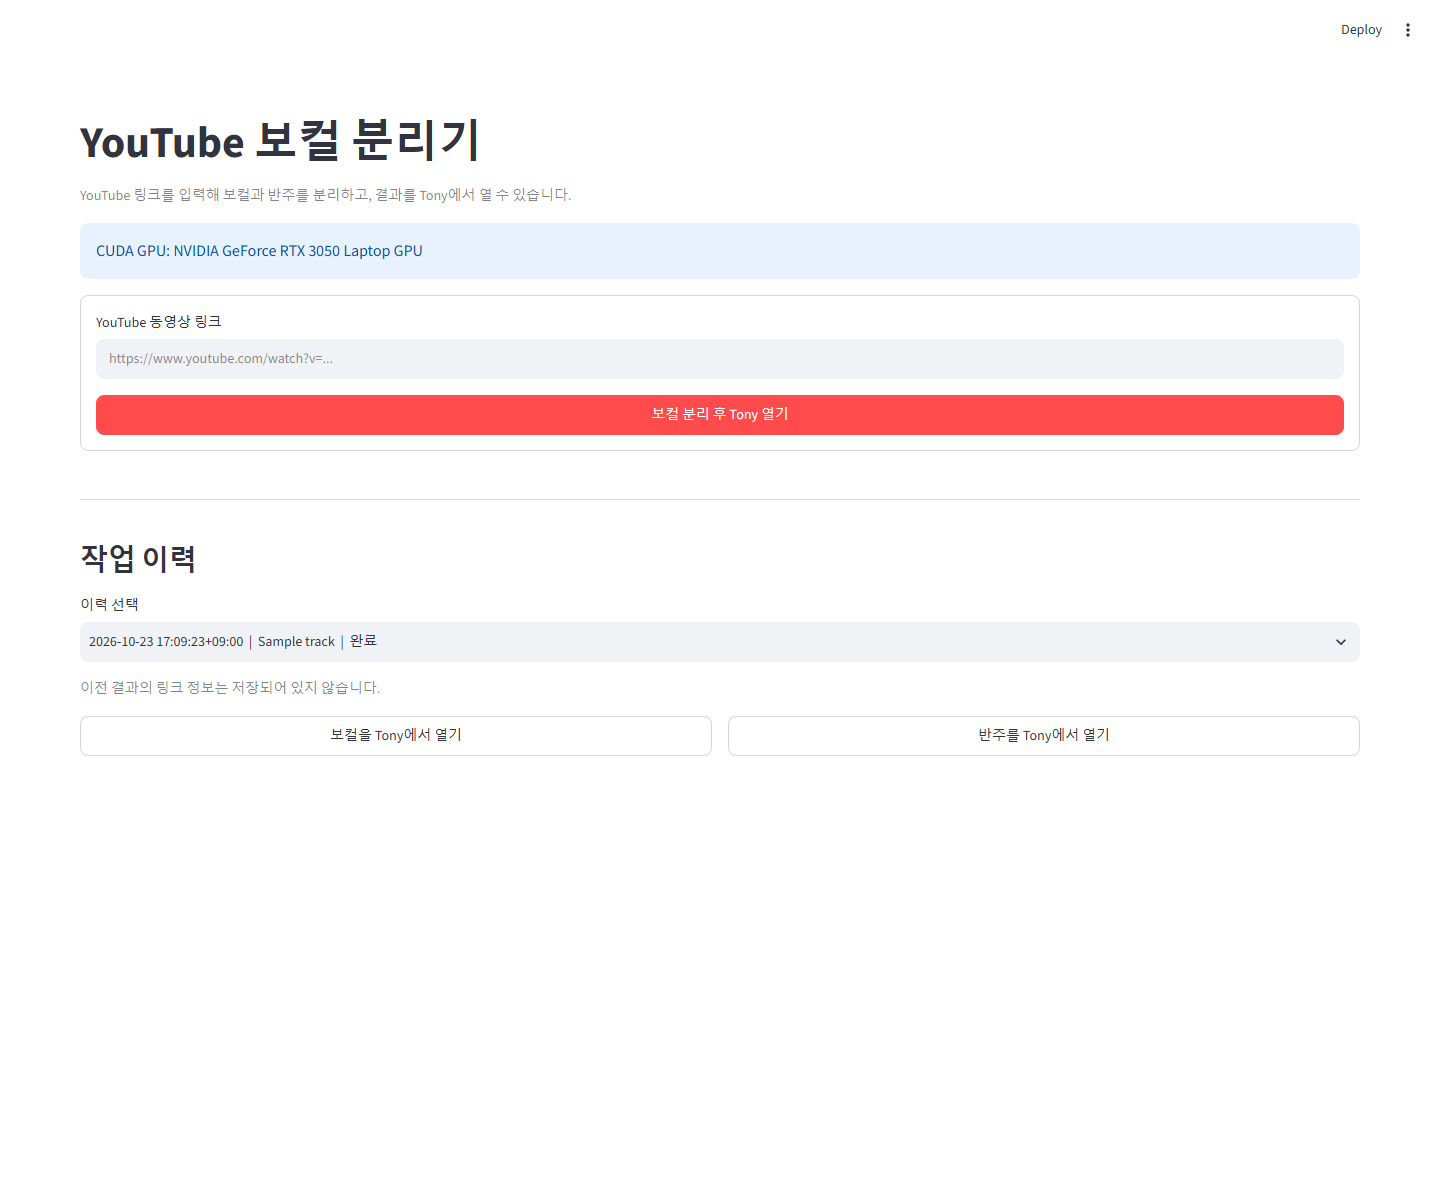
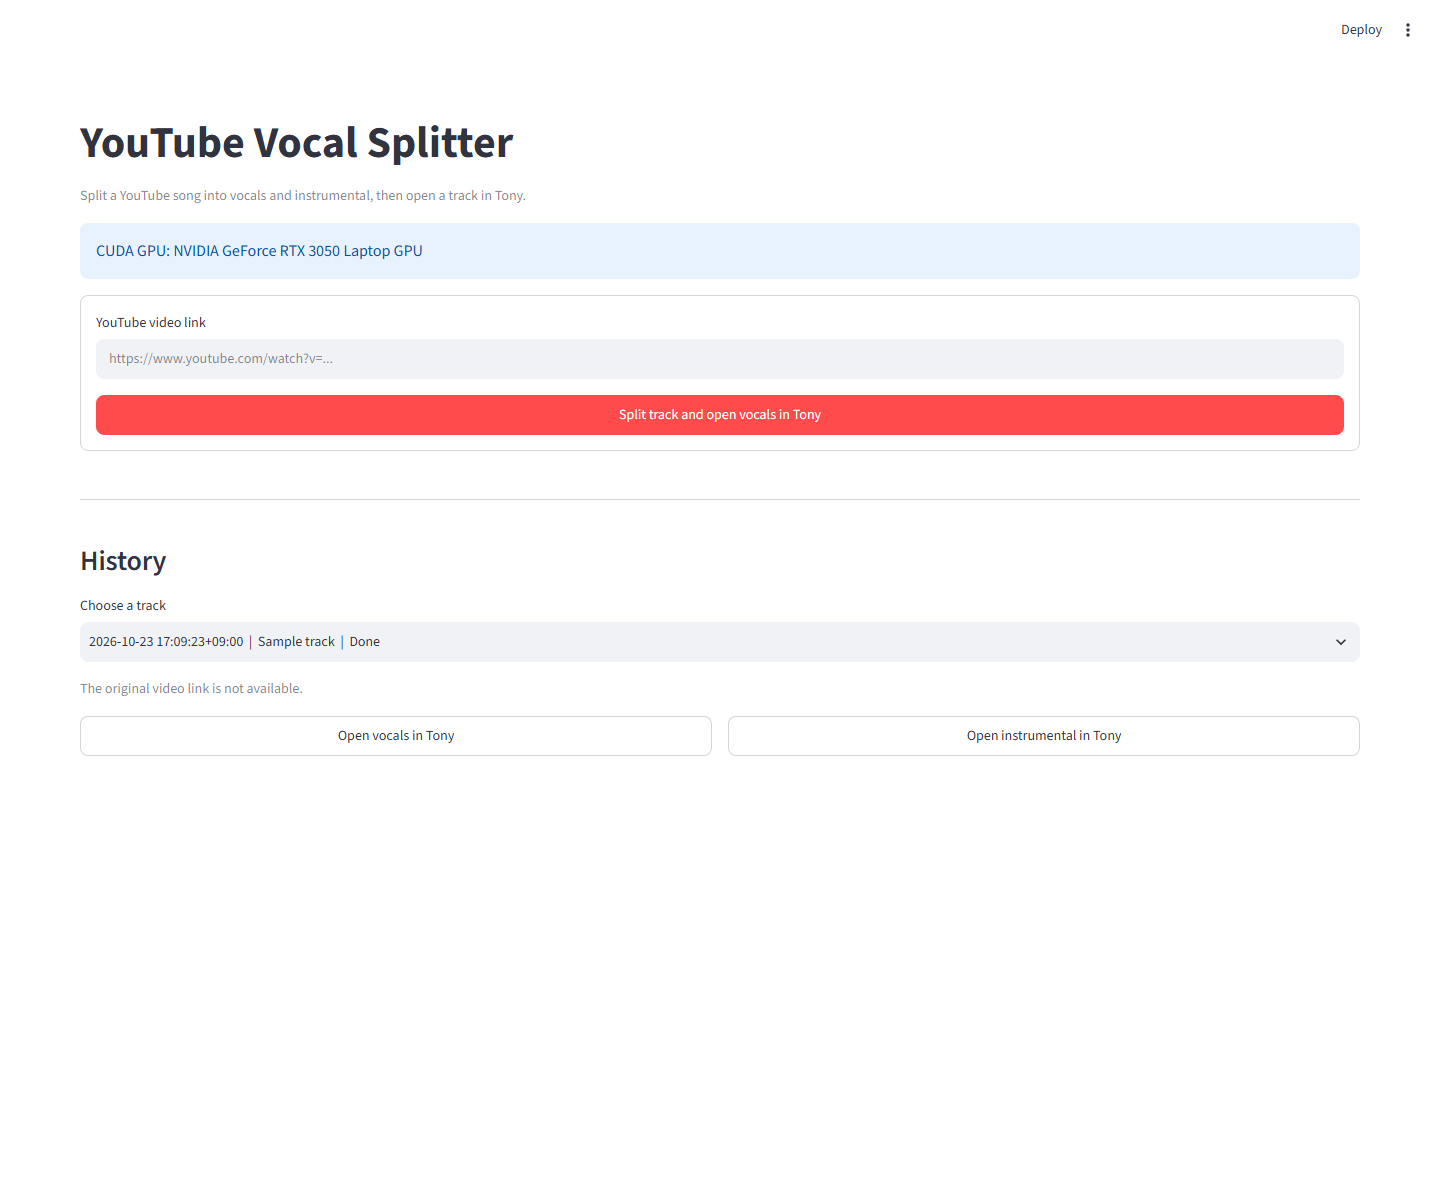
Update lang

diff --git a/pipeline.py b/pipeline.py
@@ -66,7 +66,7 @@ def initialize_history(output_dir=DEFAULT_OUTPUT_DIR):
                     VALUES (?, NULL, 'completed', ?, ?, ?)
                     """,
                     (
-                        "이전 분리 결과 (링크 정보 없음)",
+                        "Previous track (video link not saved)",
                         created_at,
                         str(legacy_vocal.resolve()),
                         str(legacy_instrumental.resolve()),
@@ -95,7 +95,7 @@ def create_history_entry(url, output_dir=DEFAULT_OUTPUT_DIR):
                 INSERT INTO history (title, url, status, created_at)
                 VALUES (?, ?, 'processing', ?)
                 """,
-                ("다운로드 중...", url, created_at),
+                ("Downloading...", url, created_at),
             )
             return cursor.lastrowid
 
@@ -138,7 +138,7 @@ def validate_youtube_url(url):
         or parsed.hostname not in valid_hosts
         or not parsed.path.strip("/")
     ):
-        raise ValueError("유효한 YouTube 동영상 URL을 입력해 주세요.")
+        raise ValueError("Enter a valid YouTube video link.")
     return url.strip()
 
 
@@ -146,10 +146,10 @@ def gpu_description():
     try:
         import torch
     except ImportError:
-        return "PyTorch가 설치되지 않았습니다."
+        return "PyTorch is not installed."
     if torch.cuda.is_available():
         return f"CUDA GPU: {torch.cuda.get_device_name(0)}"
-    return "GPU를 찾지 못해 CPU 모드로 실행합니다."
+    return "No NVIDIA GPU found. Using your CPU."
 
 
 def process_video(url, output_dir=DEFAULT_OUTPUT_DIR, on_status=None, on_title=None):
@@ -170,7 +170,7 @@ def process_video(url, output_dir=DEFAULT_OUTPUT_DIR, on_status=None, on_title=N
     process_env["PYTHONIOENCODING"] = "utf-8"
 
     try:
-        report("YouTube 오디오를 MP3로 다운로드하고 있습니다...")
+        report("Downloading audio...")
         download = subprocess.run(
             [
                 sys.executable,
@@ -198,7 +198,7 @@ def process_video(url, output_dir=DEFAULT_OUTPUT_DIR, on_status=None, on_title=N
         )
         if download.returncode:
             details = (download.stderr or download.stdout).strip()
-            raise RuntimeError(f"YouTube 오디오 다운로드에 실패했습니다.\n{details}")
+            raise RuntimeError(f"Could not download audio.\n{details}")
 
         title = next(
             (
@@ -206,14 +206,14 @@ def process_video(url, output_dir=DEFAULT_OUTPUT_DIR, on_status=None, on_title=N
                 for line in download.stdout.splitlines()
                 if line.startswith("__YT2TONY_TITLE__")
             ),
-            "YouTube 영상",
+            "YouTube track",
         )
         if on_title:
             on_title(title)
         if not temp_audio.is_file():
-            raise RuntimeError("다운로드가 완료됐지만 오디오 파일을 찾을 수 없습니다.")
+            raise RuntimeError("The download finished, but the audio file is missing.")
 
-        report("Demucs로 보컬과 반주를 분리하고 있습니다...")
+        report("Splitting vocals and instrumental...")
         import torch
 
         device = "cuda" if torch.cuda.is_available() else "cpu"
@@ -242,13 +242,13 @@ def process_video(url, output_dir=DEFAULT_OUTPUT_DIR, on_status=None, on_title=N
         )
         if separate.returncode:
             details = (separate.stderr or separate.stdout).strip()
-            raise RuntimeError(f"보컬 분리에 실패했습니다.\n{details}")
+            raise RuntimeError(f"Could not split the track.\n{details}")
 
         result_dir = output_dir / "htdemucs" / run_id
         vocal_path = result_dir / "vocals.mp3"
         instrumental_path = result_dir / "no_vocals.mp3"
         if not vocal_path.is_file() or not instrumental_path.is_file():
-            raise RuntimeError("분리는 완료됐지만 결과 파일을 찾을 수 없습니다.")
+            raise RuntimeError("The split finished, but the output files are missing.")
         return SeparationResult(title, vocal_path, instrumental_path)
     finally:
         if temp_audio.exists():
@@ -260,14 +260,14 @@ def process_video(url, output_dir=DEFAULT_OUTPUT_DIR, on_status=None, on_title=N
 def launch_tony(audio_path):
     audio_path = Path(audio_path).resolve()
     if not audio_path.is_file():
-        raise FileNotFoundError(f"오디오 파일을 찾을 수 없습니다: {audio_path}")
+        raise FileNotFoundError(f"Audio file not found: {audio_path}")
 
     tony_path = Path(
         os.environ.get("TONY_EXE", r"C:\Program Files\Tony\tony.exe")
     )
     if not tony_path.is_file():
         raise FileNotFoundError(
-            f"Tony를 찾을 수 없습니다: {tony_path}\n"
-            "TONY_EXE 환경 변수로 tony.exe 경로를 지정할 수 있습니다."
+            f"Tony was not found: {tony_path}\n"
+            "Set the TONY_EXE environment variable to your tony.exe path."
         )
     return subprocess.Popen([str(tony_path), str(audio_path)])

diff --git a/app.py b/app.py
@@ -14,20 +14,20 @@ from pipeline import (
 )
 
 
-st.set_page_config(page_title="YouTube 보컬 분리기", page_icon="🎵", layout="wide")
-st.title("YouTube 보컬 분리기")
+st.set_page_config(page_title="YouTube Vocal Splitter", page_icon="🎵", layout="wide")
+st.title("YouTube Vocal Splitter")
 st.caption(
-    "YouTube 링크를 입력해 보컬과 반주를 분리하고, 결과를 Tony에서 열 수 있습니다."
+    "Split a YouTube song into vocals and instrumental, then open a track in Tony."
 )
 st.info(gpu_description())
 
 with st.form("process_video", clear_on_submit=False):
     url = st.text_input(
-        "YouTube 동영상 링크",
+        "YouTube video link",
         placeholder="https://www.youtube.com/watch?v=...",
     )
     submitted = st.form_submit_button(
-        "보컬 분리 후 Tony 열기",
+        "Split track and open vocals in Tony",
         type="primary",
         use_container_width=True,
     )
@@ -39,7 +39,7 @@ if submitted:
         st.error(str(error))
     else:
         entry_id = create_history_entry(url)
-        with st.status("작업을 준비하고 있습니다...", expanded=True) as status:
+        with st.status("Getting ready...", expanded=True) as status:
             try:
                 result = process_video(
                     url,
@@ -61,30 +61,30 @@ if submitted:
                     status="failed",
                     error=str(error),
                 )
-                status.update(label="작업에 실패했습니다.", state="error")
+                status.update(label="Something went wrong.", state="error")
                 st.error(str(error))
             else:
-                status.update(label="보컬 분리가 완료됐습니다.", state="complete")
-                st.success(f"완료: {result.title}")
+                status.update(label="Track split complete.", state="complete")
+                st.success(f"Done: {result.title}")
                 try:
                     launch_tony(result.vocal_path)
-                    st.info("보컬 트랙을 Tony에서 열었습니다.")
+                    st.info("Vocals are open in Tony.")
                 except FileNotFoundError as error:
                     st.warning(
-                        f"{error}\n\n분리된 파일은 아래 이력에서 다시 열 수 있습니다."
+                        f"{error}\n\nYou can open the saved tracks from History."
                     )
 
 st.divider()
-st.subheader("작업 이력")
+st.subheader("History")
 history = list_history()
 
 if not history:
-    st.caption("아직 작업 이력이 없습니다. YouTube 링크를 입력해 시작해 보세요.")
+    st.caption("No tracks yet. Paste a YouTube link above to get started.")
 else:
     status_labels = {
-        "completed": "완료",
-        "processing": "작업 중",
-        "failed": "실패",
+        "completed": "Done",
+        "processing": "Working",
+        "failed": "Failed",
     }
     entries = {item["id"]: item for item in history}
 
@@ -95,15 +95,15 @@ else:
         return f'{timestamp}  |  {item["title"]}  |  {label}'
 
     selected_id = st.selectbox(
-        "이력 선택",
+        "Choose a track",
         options=list(entries),
         format_func=format_entry,
     )
     selected = entries[selected_id]
     if selected["url"]:
-        st.markdown(f"[원본 YouTube 영상 열기]({selected['url']})")
+        st.markdown(f"[Open the YouTube video]({selected['url']})")
     else:
-        st.caption("이전 결과의 링크 정보는 저장되어 있지 않습니다.")
+        st.caption("The original video link is not available.")
 
     if selected["status"] == "failed" and selected["error"]:
         st.error(selected["error"])
@@ -113,7 +113,7 @@ else:
         vocal_button, instrumental_button = st.columns(2)
         with vocal_button:
             if st.button(
-                "보컬을 Tony에서 열기",
+                "Open vocals in Tony",
                 key=f"open_vocal_{selected_id}",
                 use_container_width=True,
                 disabled=not vocal_path.is_file(),
@@ -123,10 +123,10 @@ else:
                 except (FileNotFoundError, OSError) as error:
                     st.error(str(error))
                 else:
-                    st.success("보컬 트랙을 Tony에서 열었습니다.")
+                    st.success("Vocals are open in Tony.")
         with instrumental_button:
             if st.button(
-                "반주를 Tony에서 열기",
+                "Open instrumental in Tony",
                 key=f"open_instrumental_{selected_id}",
                 use_container_width=True,
                 disabled=not instrumental_path.is_file(),
@@ -136,4 +136,4 @@ else:
                 except (FileNotFoundError, OSError) as error:
                     st.error(str(error))
                 else:
-                    st.success("반주 트랙을 Tony에서 열었습니다.")
+                    st.success("Instrumental is open in Tony.")

diff --git a/main.py b/main.py
@@ -38,14 +38,14 @@ def main():
         print(f"[Error] {error}")
         return 1
 
-    print(f"[Info] Vocal track: {result.vocal_path}")
+    print(f"[Info] Vocals: {result.vocal_path}")
     print(f"[Info] Instrumental: {result.instrumental_path}")
     try:
         launch_tony(result.vocal_path)
-        print("[Info] Vocal track opened in Tony.")
+        print("[Info] Vocals opened in Tony.")
     except FileNotFoundError as error:
         print(f"[Warning] {error}")
-        print(f"[Info] Results are saved under: {DEFAULT_OUTPUT_DIR}")
+        print(f"[Info] Tracks are saved in: {DEFAULT_OUTPUT_DIR}")
     return 0
 
 

diff --git a/README.ko.md b/README.ko.md
@@ -49,16 +49,20 @@ Tony는 기본적으로 `C:\Program Files\Tony\tony.exe`에서 찾습니다. 다
 
 ## 사용 방법
 
+앱 화면과 메시지는 쉬운 영어로 표시됩니다.
+
 1. YouTube 동영상 링크를 입력합니다.
-2. Enter 키를 누르거나 **보컬 분리 후 Tony 열기** 버튼을 선택합니다.
+2. Enter 키를 누르거나 **Split track and open vocals in Tony** 버튼을 선택합니다.
 3. 다운로드와 분리가 끝나면 보컬 트랙이 Tony에서 자동으로 열립니다.
-4. **작업 이력**에서 이전 작업을 선택하고 **보컬을 Tony에서 열기** 또는 **반주를 Tony에서 열기**를 선택하면 해당 파일을 다시 열 수 있습니다.
+4. **History**에서 이전 작업을 선택하고 **Open vocals in Tony** 또는 **Open instrumental in Tony**를 선택하면 해당 파일을 다시 열 수 있습니다.
 
 새 작업마다 별도의 결과 폴더를 사용하므로 이전 결과를 덮어쓰지 않습니다. 최초 실행 시 기존 `output/htdemucs/input_track/` 결과가 있으면 링크 정보가 없는 이력 항목으로 가져옵니다.
 
 ## 화면 미리보기
 
-![YouTube 보컬 분리기 웹 UI — YouTube 링크 입력란과 작업 이력](./docs/assets/streamlit-ui.png)
+앱 화면은 쉬운 영어로 제공됩니다.
+
+![YouTube 보컬 분리기 영어 웹 UI — YouTube 링크 입력란과 작업 이력](./docs/assets/streamlit-ui.png)
 
 ## 파이프라인 구조
 
